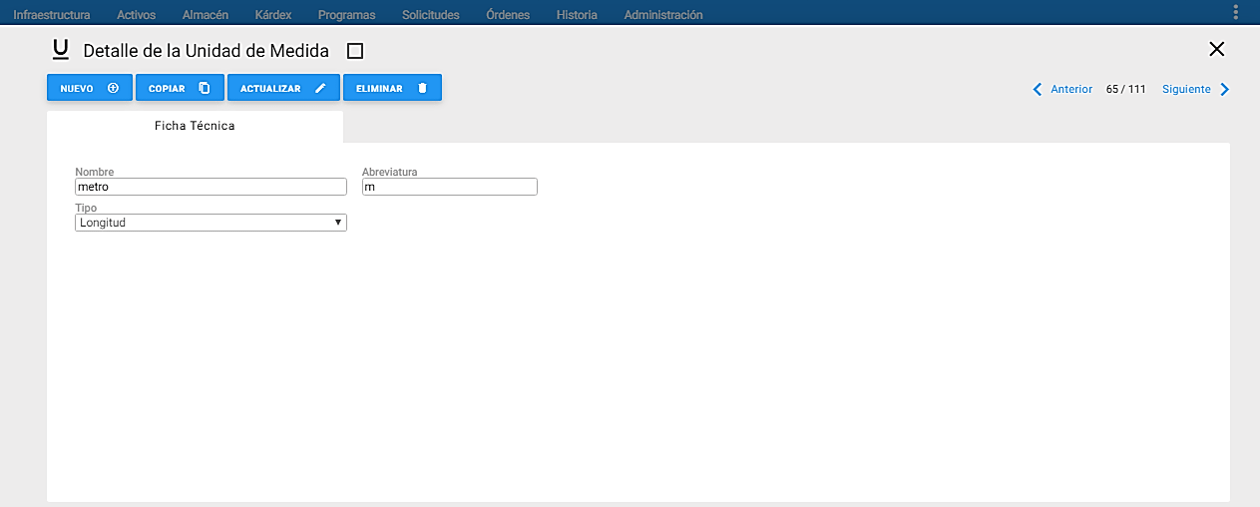
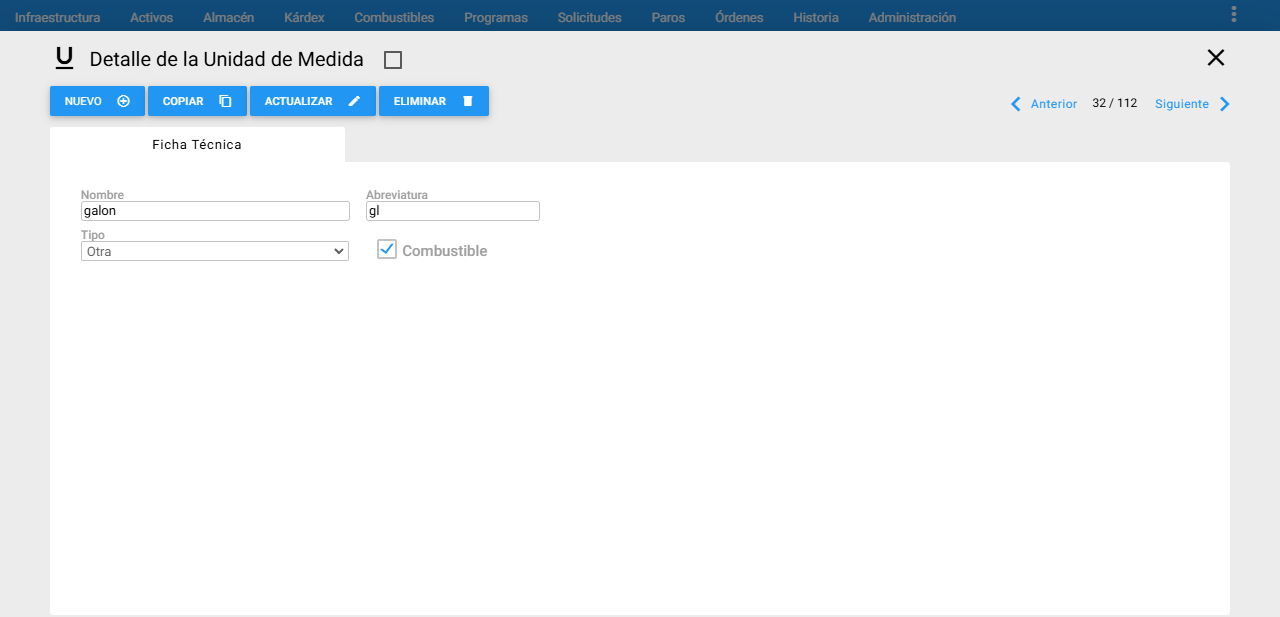
actualización IF

diff --git a/_docs/02_14_units_of_measurement.md b/_docs/02_14_units_of_measurement.md
@@ -20,3 +20,5 @@ A continuación se describen los campos que componen el registro:
 **Abreviatura:** En este campo se detalla la abreviatura que identifica la unidad de  medida que se está definiendo.
 
 **Tipo:** De acuerdo con la nueva unidad de medida se debe seleccionar el si corresponde a longitud, superficie, volumen, peso u otra.
+
+**Combustible:** Si es el caso de registrar la unidad de medida en la tabla parametrización de Combustible, y hacer seguimiento se debe marcar la opción. 
